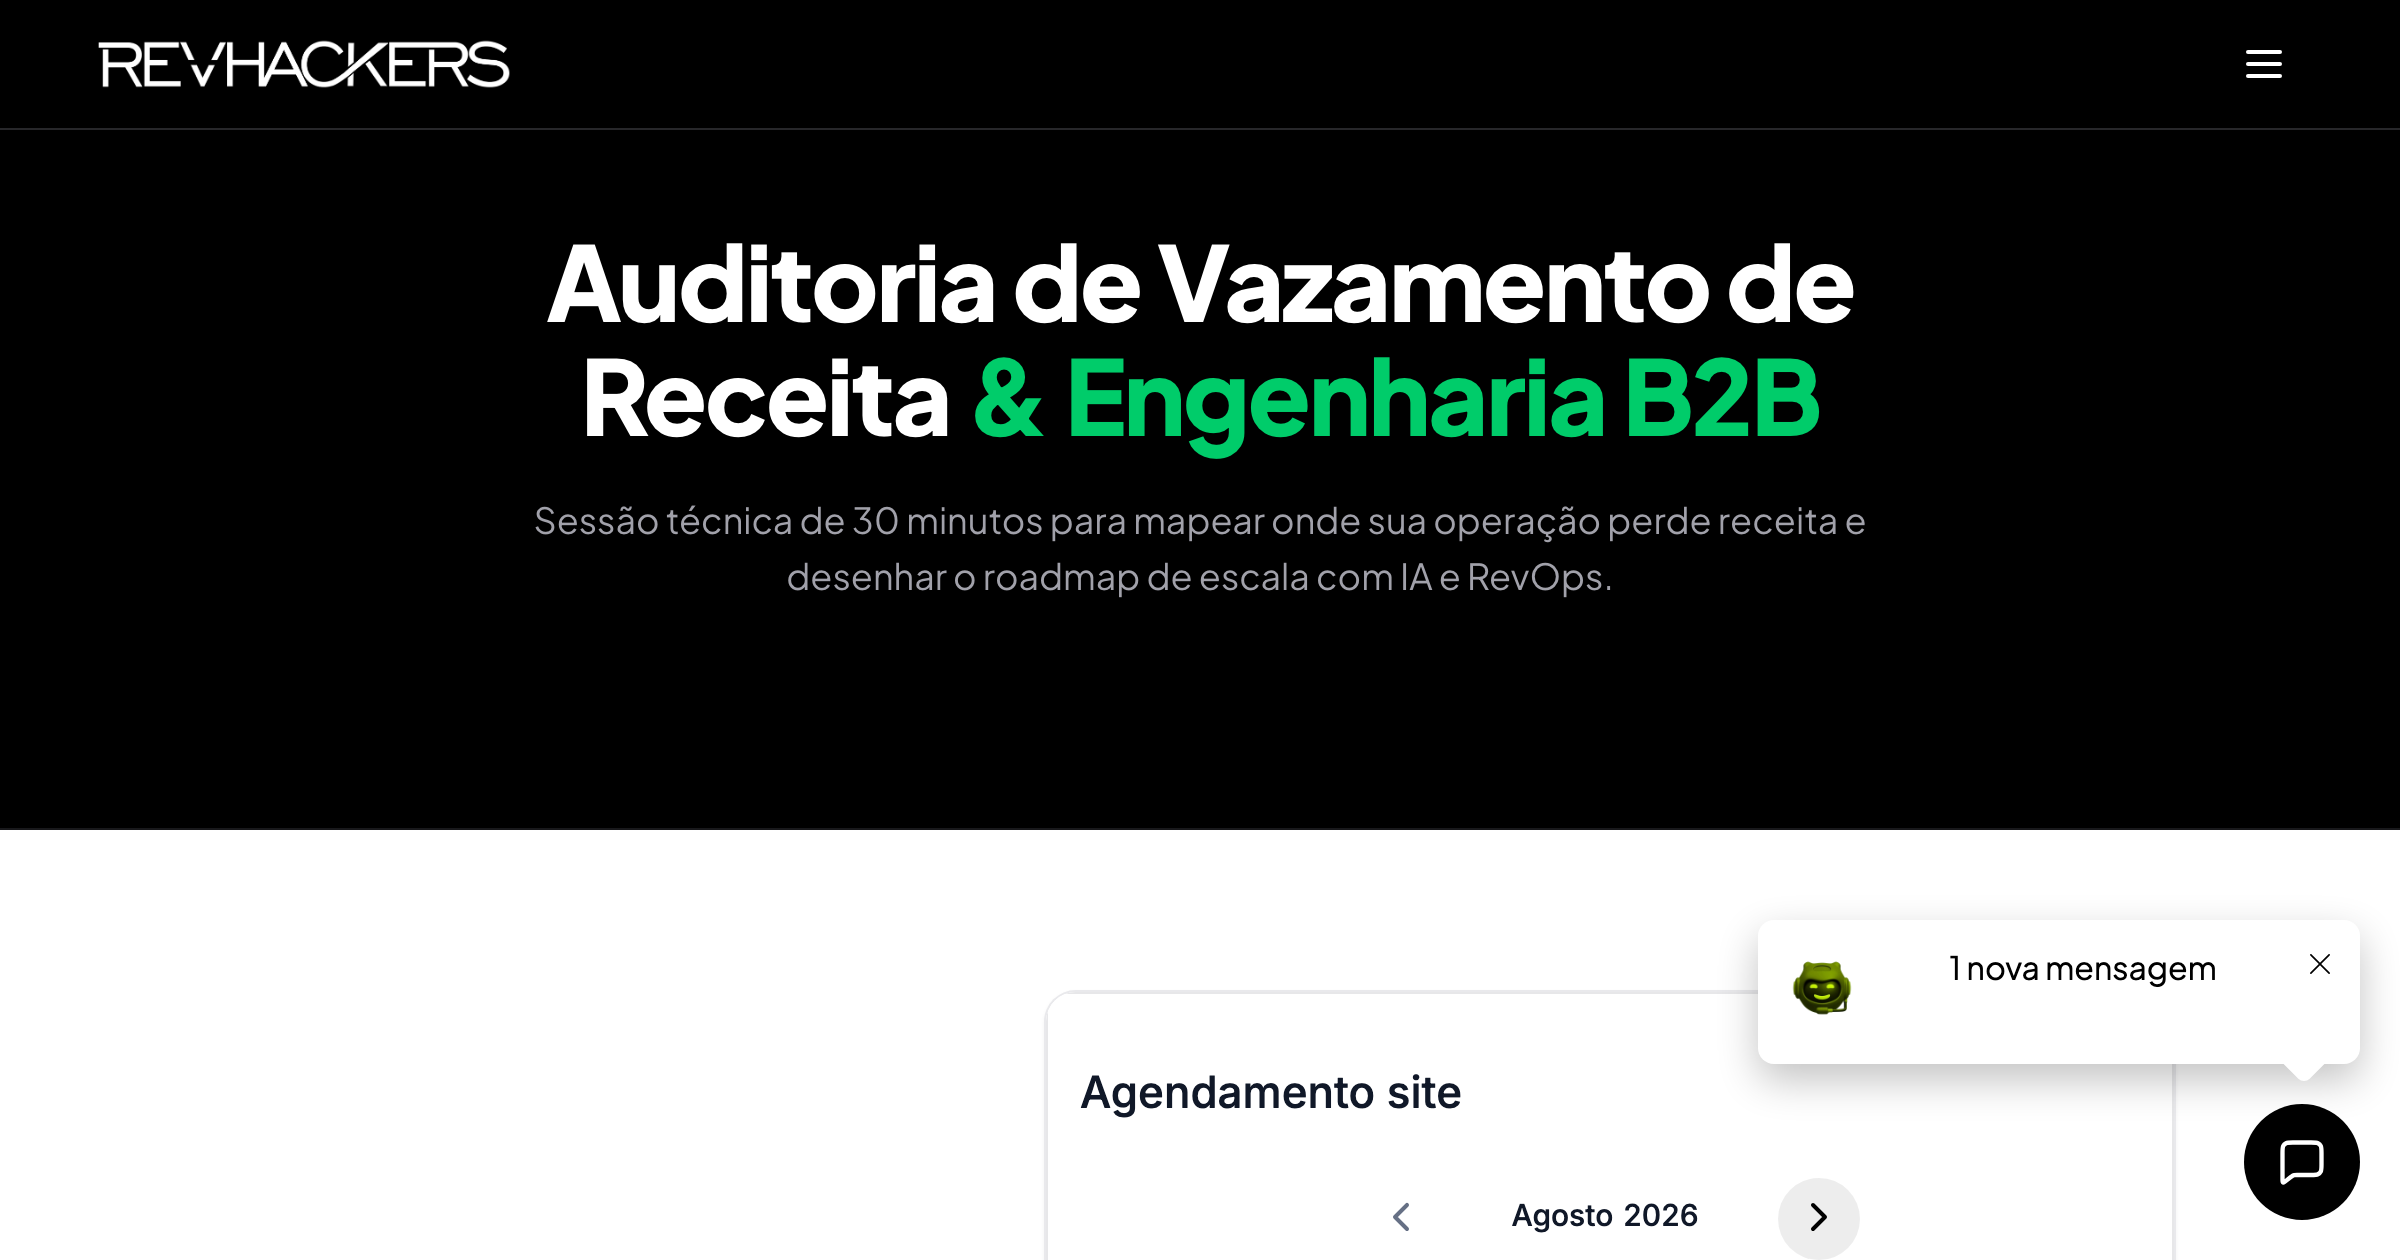
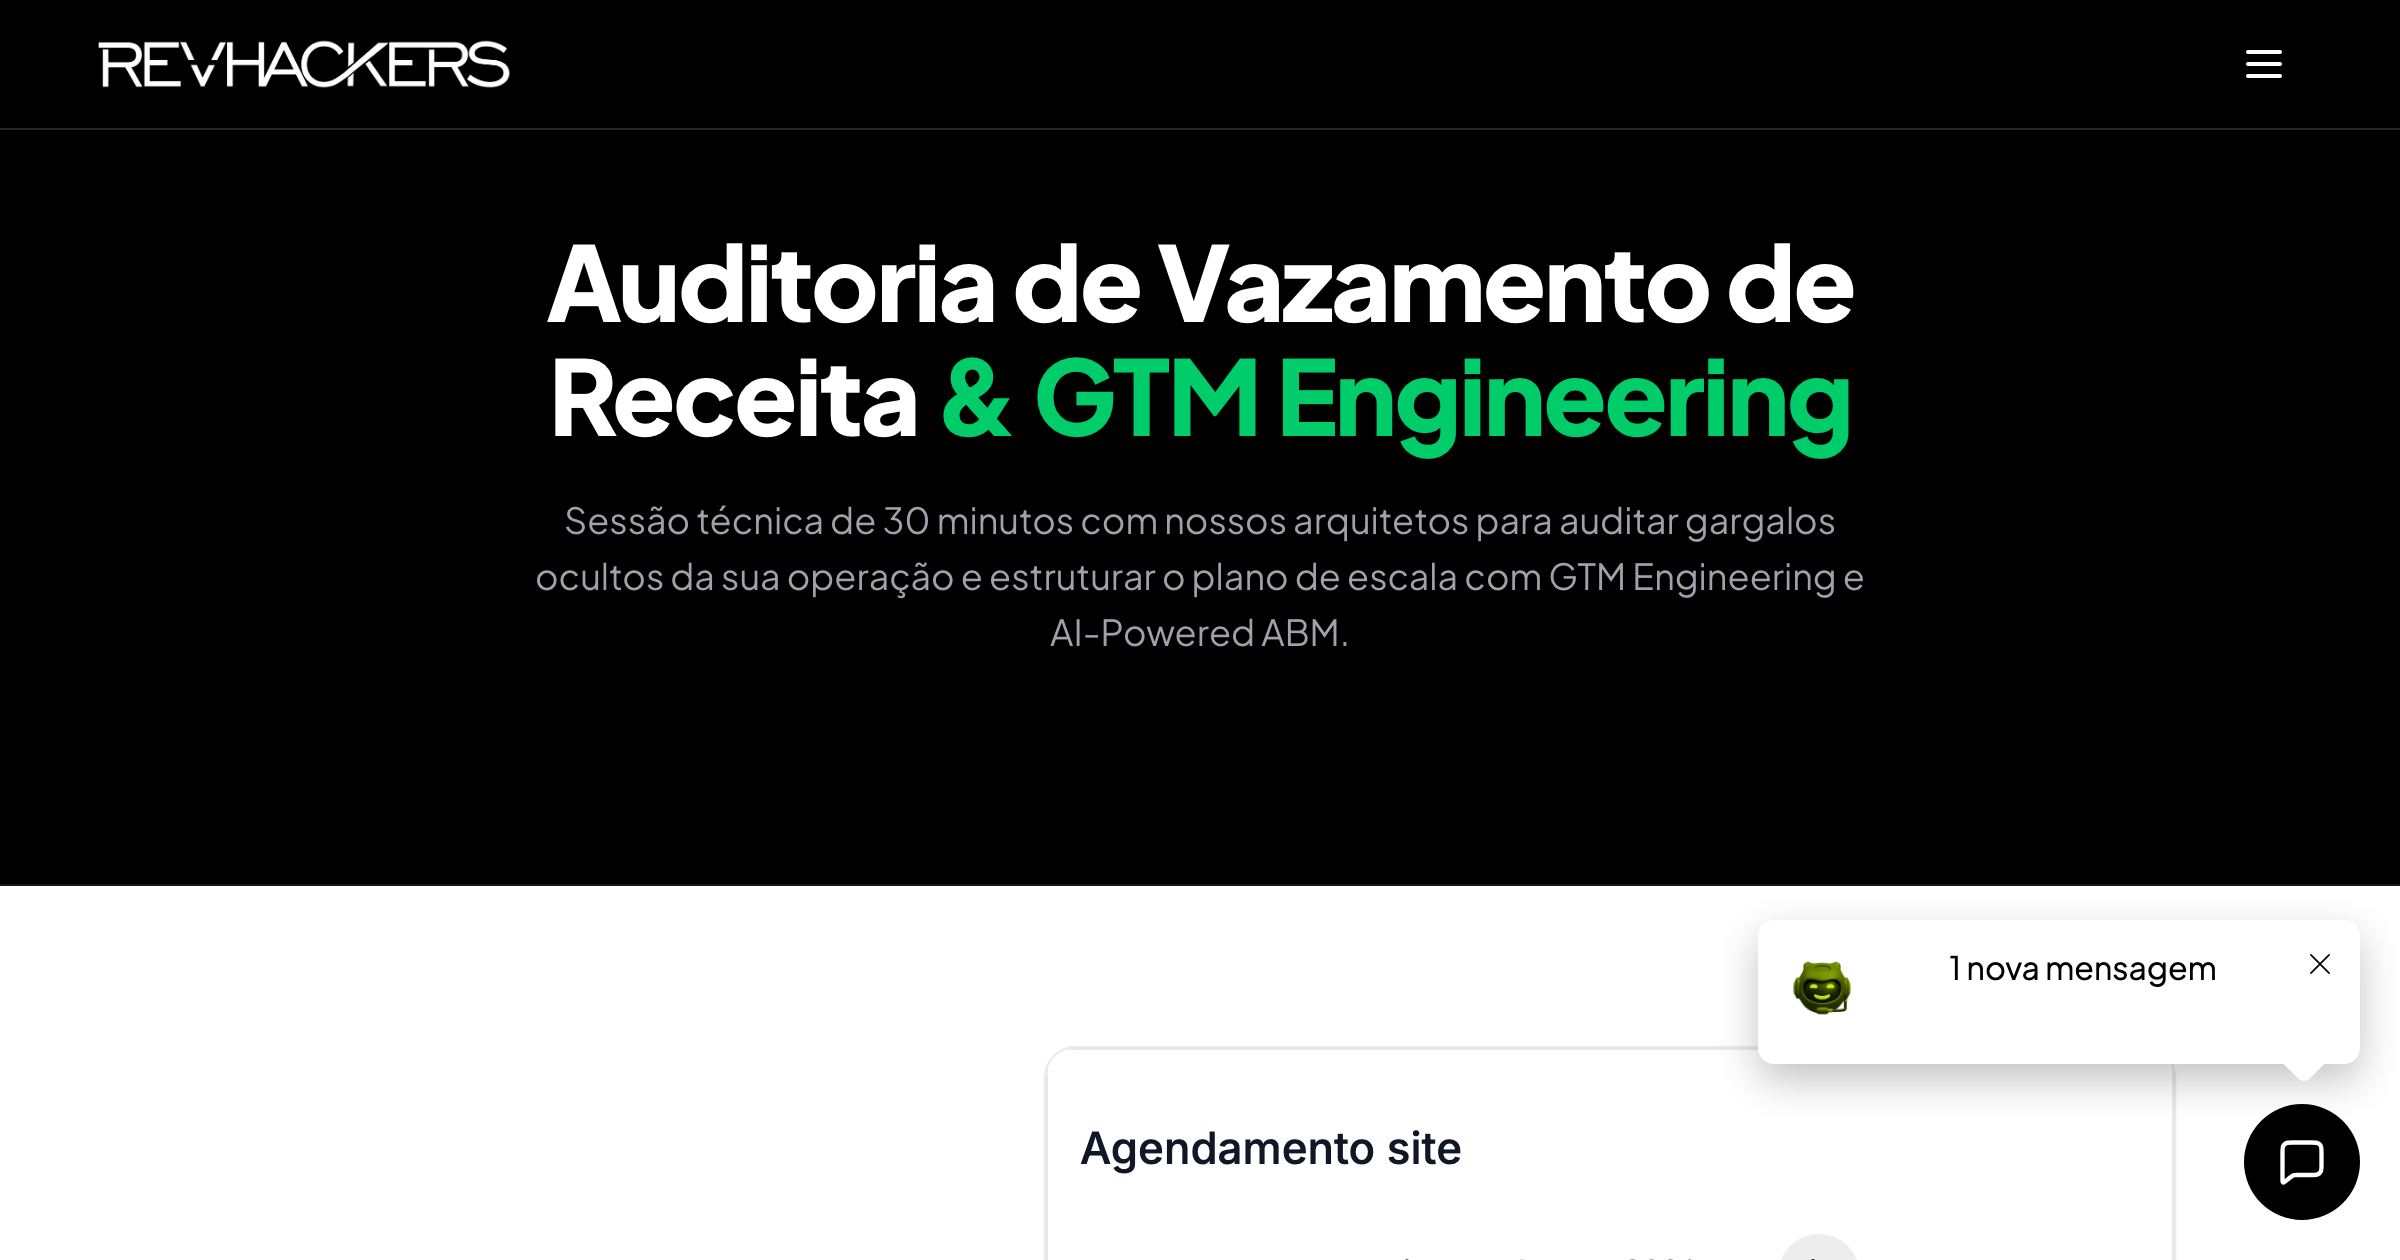
style(booking): update service name & description positioning to GTM Engineering & AI-Powered ABM

diff --git a/src/pages/AgendaDiagnostico.tsx b/src/pages/AgendaDiagnostico.tsx
@@ -66,10 +66,10 @@ const AgendaDiagnosticoPage = () => {
       <section className="relative py-20 md:py-28 bg-black border-b border-zinc-900">
         <div className="max-w-4xl mx-auto px-6 text-center space-y-5">
           <h1 className="font-sans text-[2rem] sm:text-[2.75rem] md:text-[3.25rem] font-extrabold text-white leading-[1.1] tracking-tight text-center max-w-3xl mx-auto">
-            Auditoria de Vazamento de Receita <span className="text-[#00CC6A]">& Engenharia B2B</span>
+            Auditoria de Vazamento de Receita <span className="text-[#00CC6A]">& GTM Engineering</span>
           </h1>
           <p className="text-zinc-400 text-base md:text-lg font-normal leading-relaxed max-w-2xl mx-auto text-center">
-            Sessão técnica de 30 minutos para mapear onde sua operação perde receita e desenhar o roadmap de escala com IA e RevOps.
+            Sessão técnica de 30 minutos com nossos arquitetos para auditar gargalos ocultos da sua operação e estruturar o plano de escala com GTM Engineering e AI-Powered ABM.
           </p>
         </div>
       </section>

diff --git a/src/pages/Booking.tsx b/src/pages/Booking.tsx
@@ -53,10 +53,10 @@ const BookingPage = () => {
       <section className="relative py-20 md:py-28 bg-black border-b border-zinc-900">
         <div className="max-w-4xl mx-auto px-6 text-center space-y-5">
           <h1 className="font-sans text-[2rem] sm:text-[2.75rem] md:text-[3.25rem] font-extrabold text-white leading-[1.1] tracking-tight text-center max-w-3xl mx-auto">
-            Auditoria de Vazamento de Receita <span className="text-[#00CC6A]">& Engenharia B2B</span>
+            Auditoria de Vazamento de Receita <span className="text-[#00CC6A]">& GTM Engineering</span>
           </h1>
           <p className="text-zinc-400 text-base md:text-lg font-normal leading-relaxed max-w-2xl mx-auto text-center">
-            Sessão técnica de 30 minutos para mapear onde sua operação perde receita e desenhar o roadmap de escala com IA e RevOps.
+            Sessão técnica de 30 minutos com nossos arquitetos para auditar gargalos ocultos da sua operação e estruturar o plano de escala com GTM Engineering e AI-Powered ABM.
           </p>
         </div>
       </section>
